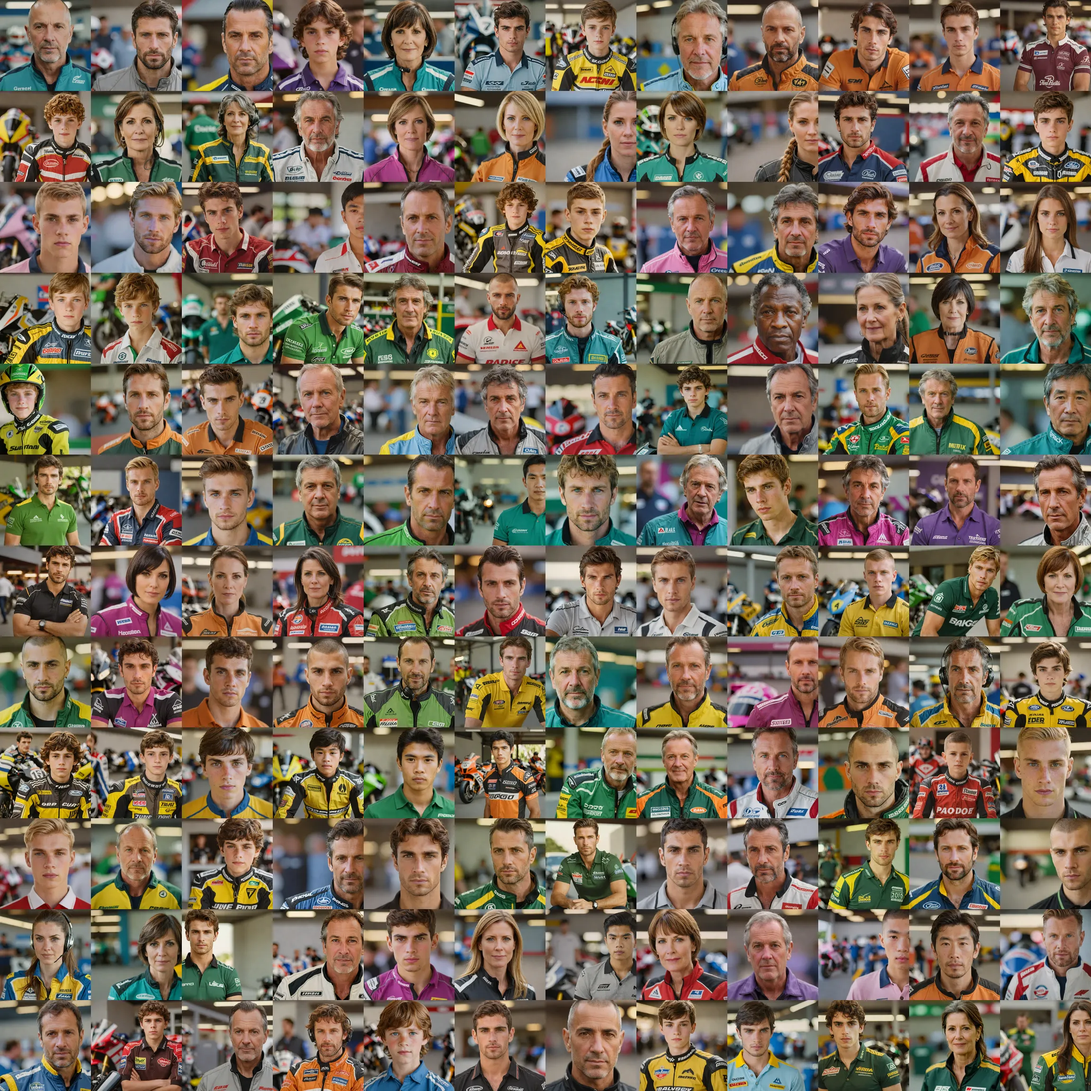
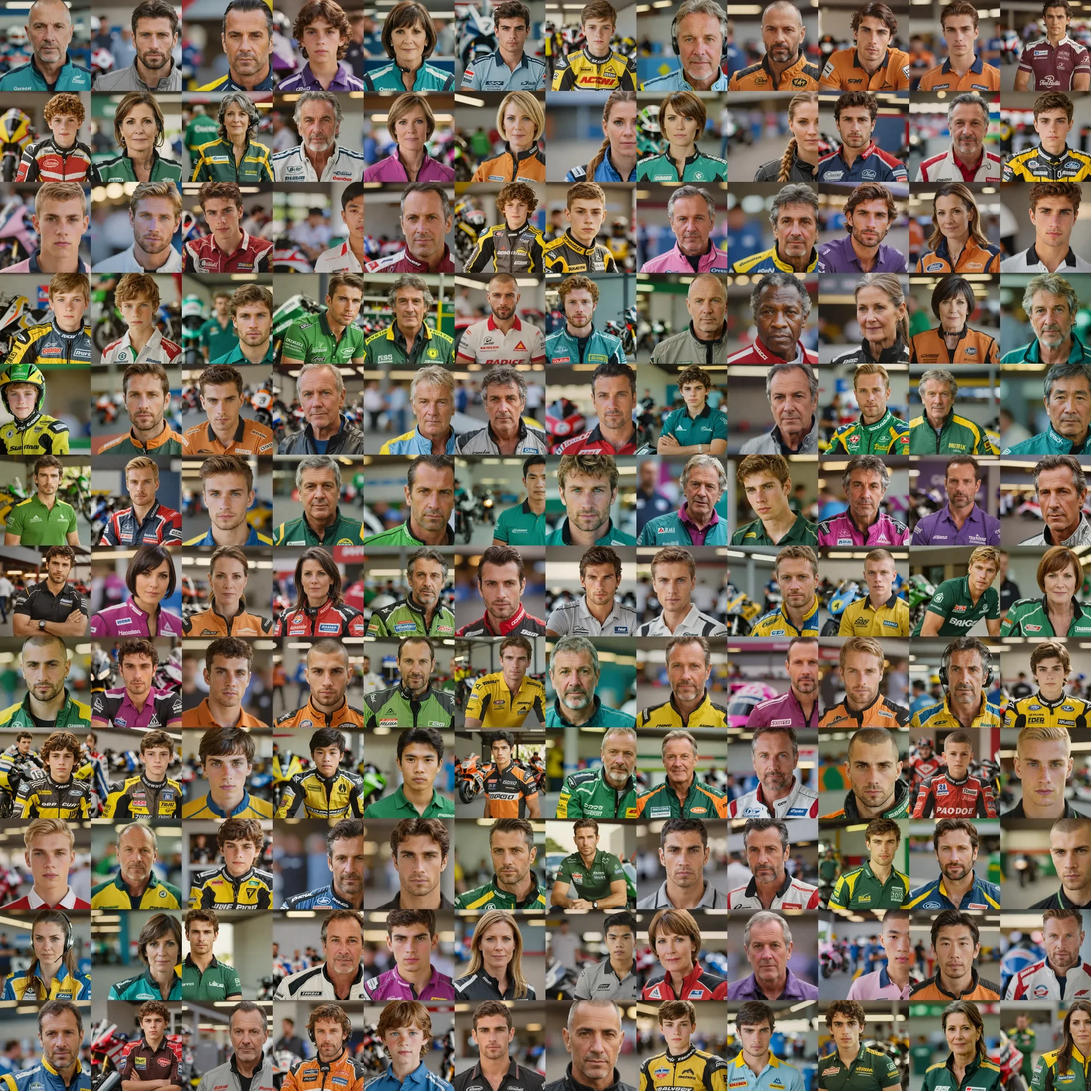
Griglia iniziale solo maschile: due nuovi piloti Moto2 con migrazione v5→v6
- Le due pilote della Intermediate del mondo fisso diventano Elia Rinaldini (ITA, 19)
  e Gonzalo Llorente (ESP, 27): stessi ID, contratti, attributi, potenziale e storia.
- Generatore: il sesso si estrae come prima (stessa sequenza casuale), il nome
  sostitutivo è deterministico: il resto del mondo è identico (verificato con diff).
- Migrazione 5→6 per le carriere salvate (rinomina e aggiorna le notizie), con test.
- Ritratti originali generati in locale, inseriti nelle stesse caselle dell'atlante
  (atlas.py --inplace riscrive solo i fogli toccati).

Claude-Session: https://claude.ai/code/session_01FnQtioFPaiqwDLA6muW1XU

Changed region(s): [[0.9062, 0.1562, 1.0, 0.25]]

diff --git a/packages/data/src/worldgen/generateWorld.ts b/packages/data/src/worldgen/generateWorld.ts
@@ -108,14 +108,51 @@ export function generateWorld(opts: WorldOptions): GameState {
     weights: Record<string, number>,
     femaleChance: number,
     avoidSurnames?: Set<string>,
+    maleOnly = false,
   ): [string, string, string] {
     for (let attempt = 0; attempt < 12; attempt++) {
       // Stesso ordine di estrazione di sempre (nazionalità, poi sesso): i mondi già generati non cambiano.
       const nationality = pickNationality(rng, weights);
-      const name = uniqueName(rng, nationality, rng.chance(femaleChance), avoidSurnames);
+      const female = rng.chance(femaleChance);
+      const name = uniqueName(rng, nationality, female, avoidSurnames);
+      if (name && female && maleOnly) {
+        // Piloti solo maschili, ma senza cambiare la sequenza dei numeri casuali: il resto del mondo
+        // (gli altri piloti, squadre, contratti) resta identico. Il nome sostitutivo è scelto in modo
+        // deterministico senza estrazioni.
+        const male = maleName(nationality, name, avoidSurnames);
+        if (male) return [nationality, male[0], male[1]];
+        continue; // nessun nome maschile libero per questo paese: si estrae un'altra nazionalità
+      }
       if (name) return [nationality, name[0], name[1]];
     }
     throw new Error('Nomi esauriti per tutte le nazionalità estratte');
+  }
+  function maleName(
+    nationality: string,
+    drawn: [string, string],
+    avoidSurnames?: Set<string>,
+  ): [string, string] | null {
+    const pool = NAMES[nationality]!;
+    let h = 0;
+    for (const ch of `${drawn[0]} ${drawn[1]}`) h = (h * 31 + ch.charCodeAt(0)) >>> 0;
+    for (let i = 0; i < pool.male.length * pool.last.length; i++) {
+      const first = pool.male[(h + i) % pool.male.length]!;
+      const last = pool.last[(h + i * 7 + 3) % pool.last.length]!;
+      const key = `${first} ${last}`;
+      if (
+        usedNames.has(key) ||
+        isBlockedSurname(last) ||
+        presetSurnames.has(last) ||
+        avoidSurnames?.has(last) ||
+        [...usedNames].some((k) => k.endsWith(` ${last}`))
+      )
+        continue;
+      usedNames.delete(`${drawn[0]} ${drawn[1]}`);
+      usedNames.add(key);
+      avoidSurnames?.add(last);
+      return [first, last];
+    }
+    return null;
   }
   function uniqueName(
     rng: Rng,
@@ -360,7 +397,7 @@ export function generateWorld(opts: WorldOptions): GameState {
     const age = riderRng.int(aMin, aMax);
     let avoid = surnamesByTier.get(tier);
     if (!avoid) surnamesByTier.set(tier, (avoid = new Set()));
-    const [nationality, first, last] = person(riderRng, RIDER_NATIONALITY_WEIGHTS, 0.03, avoid);
+    const [nationality, first, last] = person(riderRng, RIDER_NATIONALITY_WEIGHTS, 0.03, avoid, true);
     // Margine di crescita: maggiore per i più giovani (un quattordicenne può migliorare di 15–30 punti).
     const growth = Math.max(0, 28 - age) * riderRng.range(0.8, 2.2);
     return makeRider({

diff --git a/packages/data/src/rosterV6.test.ts b/packages/data/src/rosterV6.test.ts
@@ -1,0 +1,52 @@
+import { describe, expect, it } from 'vitest';
+import { generateWorld } from './worldgen/generateWorld.ts';
+import { deserializeState, RIDER_RENAMES_V6, serializeState } from './serialize.ts';
+import { rows } from './index.ts';
+
+const SEED = 'lean-angle-universo-1';
+
+describe('griglia iniziale solo maschile (v6)', () => {
+  it('nessuna pilota nel mondo fisso; i due nuovi piloti hanno gli identificativi di prima', () => {
+    const s = generateWorld({ seed: SEED });
+    const riders = rows(s, 'riders');
+    for (const [[f, l]] of RIDER_RENAMES_V6)
+      expect(riders.some((r) => r.firstName === f && r.lastName === l)).toBe(false);
+    expect(riders.find((r) => r.id === 'rdr_000030')).toMatchObject({
+      firstName: 'Elia',
+      lastName: 'Rinaldini',
+      nationality: 'ITA',
+    });
+    expect(riders.find((r) => r.id === 'rdr_000046')).toMatchObject({
+      firstName: 'Gonzalo',
+      lastName: 'Llorente',
+      nationality: 'ESP',
+    });
+    expect(new Set(riders.map((r) => `${r.firstName} ${r.lastName}`)).size).toBe(riders.length);
+  });
+
+  it('la migrazione v5 → v6 rinomina le pilote nei salvataggi esistenti e lascia tutto il resto', () => {
+    const now = generateWorld({ seed: SEED });
+    const old = JSON.parse(serializeState(now)) as Record<string, any>;
+    old.schemaVersion = 5;
+    old.tables.riders.rdr_000030.firstName = 'Beatrice';
+    old.tables.riders.rdr_000030.lastName = 'Galimberti';
+    old.tables.riders.rdr_000046.firstName = 'Paula';
+    old.tables.riders.rdr_000046.lastName = 'Urquiza';
+    old.tables.news = {
+      n1: {
+        id: 'n1',
+        day: 0,
+        tag: 'gara',
+        title: 'Galimberti sul podio',
+        body: 'Beatrice Galimberti terza.',
+        mine: false,
+      },
+    };
+    const back = deserializeState(JSON.stringify(old));
+    expect(back.tables.riders).toEqual(now.tables.riders);
+    expect(back.tables.contracts).toEqual(now.tables.contracts);
+    const n = (back.tables as any).news.n1;
+    expect(n.title).toBe('Rinaldini sul podio');
+    expect(n.body).toBe('Elia Rinaldini terza.');
+  });
+});

diff --git a/packages/data/src/serialize.ts b/packages/data/src/serialize.ts
@@ -35,7 +35,46 @@ export const MIGRATIONS: Readonly<Record<number, Migration>> = {
     const tables = (s.tables ?? {}) as Record<string, unknown>;
     return { ...s, tables: { ...tables, upgradeOrders: tables.upgradeOrders ?? {} } };
   },
+  /**
+   * v5 → v6: la griglia iniziale è solo maschile. Le due pilote della Intermediate del mondo fisso
+   * diventano due piloti nuovi: stesso identificativo (contratti, risultati, legami restano validi),
+   * nuovo nome. Aggiornate anche le notizie che le citavano.
+   */
+  5: (s) => {
+    const tables = (s.tables ?? {}) as Record<string, Record<string, Record<string, unknown>>>;
+    const riders = tables.riders ?? {};
+    const taken = new Set(Object.values(riders).map((r) => `${r.firstName} ${r.lastName}`));
+    const renames: [string, string][] = [];
+    for (const [from, to] of RIDER_RENAMES_V6) {
+      const [f0, l0, nat] = from;
+      const r = Object.values(riders).find(
+        (x) => x.firstName === f0 && x.lastName === l0 && x.nationality === nat,
+      );
+      if (!r || taken.has(`${to[0]} ${to[1]}`)) continue;
+      r.firstName = to[0];
+      r.lastName = to[1];
+      renames.push([`${f0} ${l0}`, `${to[0]} ${to[1]}`], [l0, to[1]]);
+    }
+    if (renames.length > 0)
+      for (const n of Object.values(tables.news ?? {}))
+        for (const k of ['title', 'body'] as const)
+          if (typeof n[k] === 'string')
+            n[k] = renames.reduce((t, [a, b]) => (t as string).split(a).join(b), n[k]);
+    return s;
+  },
 };
+
+/** Pilote della griglia iniziale sostituite in v6: [nome, cognome, nazionalità] → [nome, cognome]. */
+export const RIDER_RENAMES_V6: readonly [readonly [string, string, string], readonly [string, string]][] = [
+  [
+    ['Beatrice', 'Galimberti', 'ITA'],
+    ['Elia', 'Rinaldini'],
+  ],
+  [
+    ['Paula', 'Urquiza', 'ESP'],
+    ['Gonzalo', 'Llorente'],
+  ],
+];
 
 export class SaveFormatError extends Error {}
 

diff --git a/packages/data/src/schema/state.ts b/packages/data/src/schema/state.ts
@@ -10,7 +10,7 @@ import type { Negotiation } from './market.ts';
 import type { NewsItem, SessionResult } from './results.ts';
 
 /** Versione dello schema dei salvataggi: va incrementata a ogni modifica incompatibile (con migrazione). */
-export const SCHEMA_VERSION = 5;
+export const SCHEMA_VERSION = 6;
 
 export type Table<T extends { id: string }> = Record<T['id'], T>;
 
@@ -76,6 +76,11 @@ export interface GameState {
    * Struttura definita nei pacchetti game/sim (RacePrep, RaceSnapshot).
    */
   liveSession?: { prep: unknown; snapshot: unknown; viewerT: number };
+  /**
+   * Prove del weekend in corso (giocatore): giri, confidenza col circuito e con la moto, tempo usato per le
+   * modifiche d'assetto fra una sessione e l'altra, cronologia di uscite e modifiche. Si azzera a ogni weekend.
+   */
+  practice?: PracticeState;
 }
 
 export type TableName = keyof GameState['tables'];
@@ -116,4 +121,31 @@ export function createEmptyGameState(meta: GameMeta): GameState {
     accounts: [],
     upgrades: {},
   };
+}
+
+export type PracticeProgram = 'track' | 'setup' | 'longRun';
+export interface PracticeLogEntry {
+  /** Sessione dopo cui (o in cui) è avvenuto. */
+  session: string;
+  kind: 'run' | 'change';
+  text: string;
+  laps?: number;
+  best?: number;
+  /** Intesa con l'assetto in quel momento (0–100). */
+  match?: number;
+  minutes?: number;
+}
+export interface PracticeRider {
+  laps: number;
+  /** Confidenza col circuito e con la moto, 0–100. */
+  trackConf: number;
+  bikeConf: number;
+  /** Minuti di lavoro già usati nella pausa corrente. */
+  minutesUsed: number;
+  longRun: boolean;
+  log: PracticeLogEntry[];
+}
+export interface PracticeState {
+  roundId: string;
+  riders: Record<string, PracticeRider>;
 }

diff --git a/tools/portraits/export.ts b/tools/portraits/export.ts
@@ -99,7 +99,7 @@ for (const [band, n] of Object.entries(PORTRAIT_POOL_SIZE)) {
     });
   }
 }
-writeFileSync(new URL('./roster.json', import.meta.url), JSON.stringify(out, null, 1));
+writeFileSync(new URL('./roster.json', import.meta.url), JSON.stringify(out, null, 2) + '\n');
 const count = (k: string) => out.filter((x) => x.kind === k).length;
 console.log(
   `roster.json: ${count('rider')} piloti, ${count('staff')} staff, ${count('pool')} volti di riserva`,

diff --git a/tools/portraits/atlas.py b/tools/portraits/atlas.py
@@ -6,7 +6,9 @@ Sorgenti, in ordine di precedenza:
   1. ritratti nuovi o rigenerati in tools/portraits/out/portraits/<chiave>.webp (prodotti da generate.py);
   2. la casella già presente negli atlanti attuali (così non servono gli originali nel repository).
 Ogni personaggio di tools/portraits/roster.json deve avere un ritratto: lo script si ferma se ne manca uno.
-  python3 tools/portraits/atlas.py
+  python3 tools/portraits/atlas.py            ricostruisce tutti i fogli (ordine alfabetico)
+  python3 tools/portraits/atlas.py --inplace  sostituisce solo le caselle cambiate: i personaggi tolti dal roster
+                                              lasciano la casella ai nuovi; si riscrivono solo i fogli toccati
 """
 import json, os, sys
 from PIL import Image
@@ -19,7 +21,39 @@ CELL, COLS = 192, 12
 PER = COLS * COLS
 
 
+def inplace():
+    roster = json.load(open(os.path.join(HERE, 'roster.json')))
+    keys = {p['key'] for p in roster}
+    idx = json.load(open(os.path.join(OUT, 'index.json')))
+    m = idx['map']
+    freed = sorted((v for k, v in m.items() if k not in keys), key=lambda v: tuple(v))
+    for k in [k for k in m if k not in keys]:
+        del m[k]
+    new = sorted(k for k in keys if k not in m)
+    redo = sorted(k for k in keys if k in m and os.path.exists(os.path.join(NEW, f'{k}.webp')))
+    if len(new) > len(freed):
+        sys.exit(f'{len(new)} ritratti nuovi ma solo {len(freed)} caselle libere: usa la ricostruzione completa')
+    missing = [k for k in new if not os.path.exists(os.path.join(NEW, f'{k}.webp'))]
+    if missing:
+        sys.exit(f'Ritratti mancanti: {missing}… generali con generate.py')
+    for k, cell in zip(new, freed):
+        m[k] = cell
+    touched = {}
+    for k in new + redo:
+        sh, c, r = m[k]
+        if sh not in touched:
+            touched[sh] = Image.open(os.path.join(OUT, f'sheet-{sh}.webp')).convert('RGB')
+        img = Image.open(os.path.join(NEW, f'{k}.webp')).convert('RGB').resize((CELL, CELL), Image.LANCZOS)
+        touched[sh].paste(img, (c * CELL, r * CELL))
+    for sh, im in touched.items():
+        im.save(os.path.join(OUT, f'sheet-{sh}.webp'), quality=90)
+    json.dump(idx, open(os.path.join(OUT, 'index.json'), 'w'), separators=(',', ':'))
+    print(f'{len(new)} nuovi, {len(redo)} rigenerati; fogli riscritti: {sorted(touched)}')
+
+
 def main():
+    if '--inplace' in sys.argv:
+        return inplace()
     roster = json.load(open(os.path.join(HERE, 'roster.json')))
     keys = sorted({p['key'] for p in roster})
     old_index = json.load(open(os.path.join(OUT, 'index.json'))) if os.path.exists(os.path.join(OUT, 'index.json')) else {'map': {}}

diff --git a/docs/SALVATAGGI.md b/docs/SALVATAGGI.md
@@ -13,10 +13,20 @@
   upgrade.
 - Campi globali: `upgrades` (livelli per reparto), `garageMode` (manutenzione per squadra), `spares` (ricambi),
   `setups` (assetto di ogni pilota, asciutto/bagnato), stato del generatore casuale e contatori degli ID.
-- La sessione di gara in corso: vedi `PIANO-SIMULAZIONE-INCREMENTALE.md` (campo `liveSession`, Milestone B).
+- La gara in diretta in corso (`liveSession`): preparazione, stato completo della simulazione e posizione del
+  visore. Caricando si riprende esattamente dallo stesso punto (vedi `SIMULAZIONE-INCREMENTALE.md`).
 
 ## Regole
 - I campi nuovi facoltativi non richiedono migrazione (assenti = valore predefinito); un cambio di significato o
   di struttura richiede una nuova versione e una migrazione con test (`serialize.test.ts`).
 - Gli ID esistenti non si riusano né si cancellano: le carriere salvate li referenziano.
 - Il mondo iniziale è fisso (`UNIVERSE_SEED`): stessi personaggi in ogni nuova carriera.
+
+## Versioni dello schema
+| Versione | Cambiamento |
+|---|---|
+| 2 | trattative di mercato |
+| 3 | risultati delle sessioni e notizie |
+| 4 | upgrade dei componenti, sponsor con obiettivo |
+| 5 | ordini di upgrade alla fabbrica |
+| 6 | griglia iniziale solo maschile: le due pilote della Intermediate del mondo fisso diventano Elia Rinaldini (ITA) e Gonzalo Llorente (ESP). Stessi ID, contratti, attributi e risultati; aggiornate anche le notizie. |
